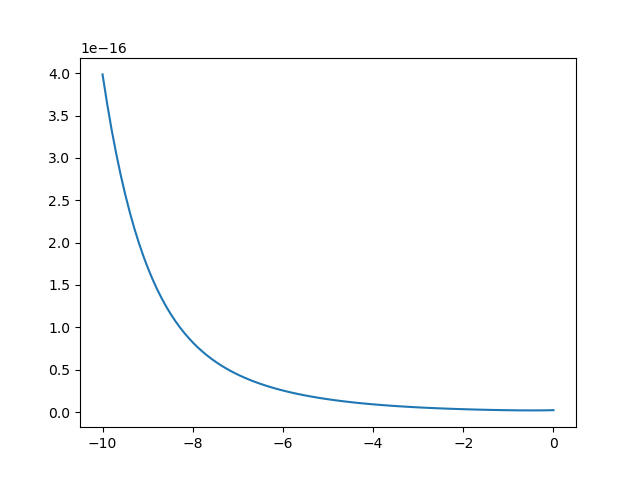
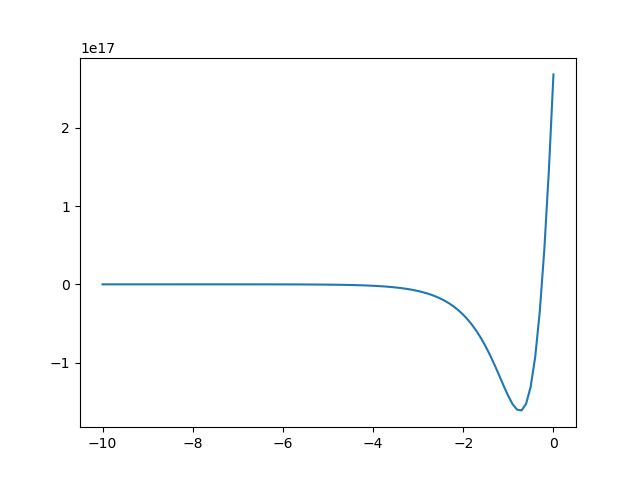
d

diff --git a/plotting/Milestone1.py b/plotting/Milestone1.py
@@ -3,17 +3,26 @@ import matplotlib
 # matplotlib.use('TkAgg')
 import matplotlib.pyplot as plt 
 
+# Unix
+# supernovadata = np.loadtxt('/home/antonabr/AST5220/data/supernovadata.txt')
+# results_supernovafitting = np.loadtxt('/home/antonabr/AST5220/data/results_supernovafitting.txt')
 
-supernovadata = np.loadtxt('/home/antonabr/AST5220/data/supernovadata.txt')
-results_supernovafitting = np.loadtxt('/home/antonabr/AST5220/data/results_supernovafitting.txt')
+# Windows
+supernovadata = np.loadtxt('\Users\anton\OneDrive\Skrivebord\Python\AST5220\data\supernovadata.txt')
+results_supernovafitting = np.loadtxt('C:\Users\anton\OneDrive\Skrivebord\Python\AST5220\data\results_supernovafitting.txt')
 
 data = np.loadtxt('/home/antonabr/AST5220/data/cosmology.txt')
 
 x = data[:, 0]
 eta_of_x = data[:, 1]
-t_of_x = data[:, 2]
-Hp_of_x = data[:, 3]
+detadx_of_x = data[:, 2]
+t_of_x = data[:, 3]
+Hp_of_x = data[:, 4]
 
-Hp_plot = plt.plot(x, Hp_of_x)
+fig = plt.figure()
+ax = fig.add_subplot()
+
+Hp_plot = ax.plot(x, detadx_of_x*Hp_of_x)
+# ax.set_yscale('log')
 plt.savefig('Hp_plot.png')
 plt.show()

diff --git a/src/BackgroundCosmology.cpp b/src/BackgroundCosmology.cpp
@@ -201,6 +201,10 @@ double BackgroundCosmology::eta_of_x(double x) const{
   return eta_of_x_spline(x);
 }
 
+double BackgroundCosmology::detadx_of_x(double x) const{
+  return eta_of_x_spline.deriv_x(x);
+}
+
 double BackgroundCosmology::t_of_x(double x) const{
   return t_of_x_spline(x);
 }
@@ -261,6 +265,7 @@ void BackgroundCosmology::output(const std::string filename) const{
   auto print_data = [&] (const double x) {
     fp << x                  << " ";
     fp << eta_of_x(x)        << " ";
+    fp << detadx_of_x(x)        << " ";
     fp << t_of_x(x)          << " ";
     fp << Hp_of_x(x)         << " ";
     fp << dHpdx_of_x(x)      << " ";

diff --git a/include/BackgroundCosmology.h b/include/BackgroundCosmology.h
@@ -55,6 +55,7 @@ class BackgroundCosmology{
 
     // Get functions that we must implement
     double eta_of_x(double x) const;
+    double detadx_of_x(double x) const;
     double H_of_x(double x) const;
     double t_of_x(double x) const;
     double Hp_of_x(double x) const;
